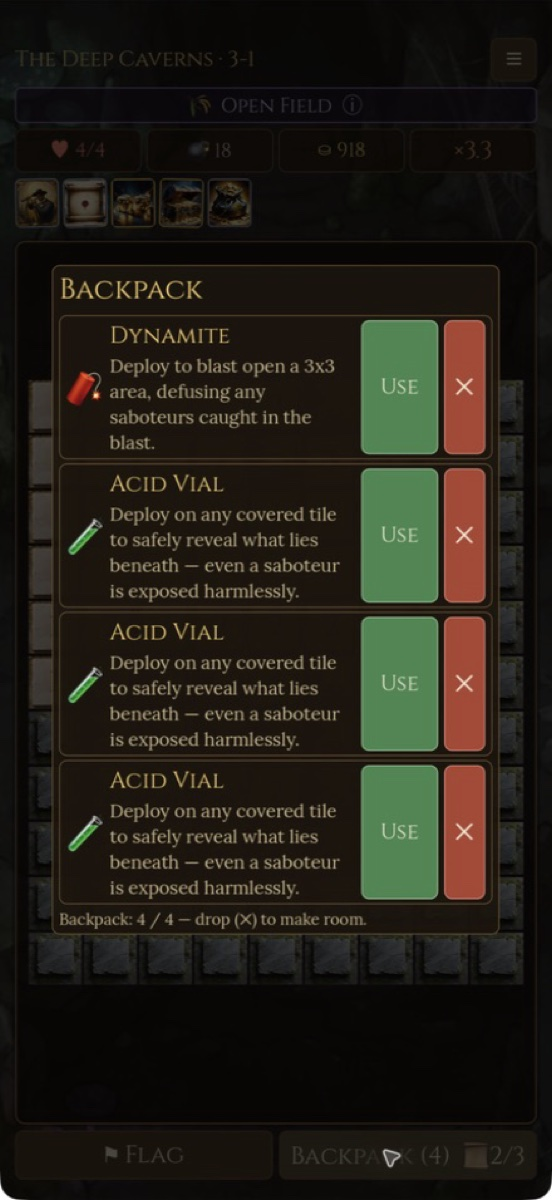
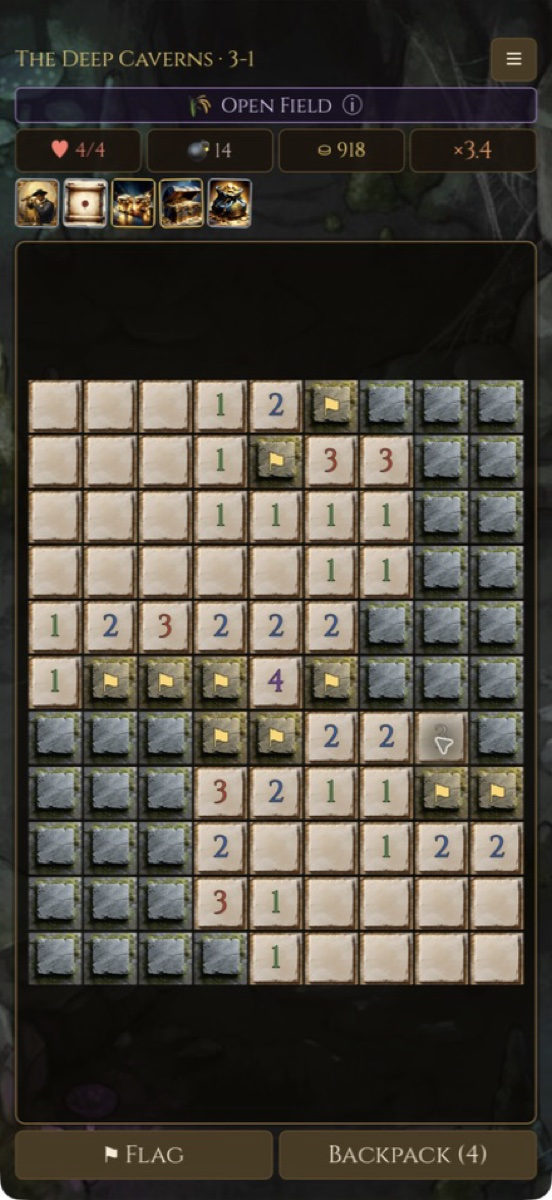
Card thumbs: center crop; Sweeper leads with its three distinct shots
Top-anchored crops showed every shot's identical logo/HUD header and hid
the differentiating mid-board action. Sweeper's card now shows field,
flagging mode, and the backpack screen instead of three near-identical
fields.

diff --git a/style.css b/style.css
@@ -215,7 +215,7 @@ section { padding: 64px 0; }
 .card-shots { display: flex; gap: 7px; margin: 4px 0 2px; }
 .card-shots img {
   width: calc((100% - 14px) / 3);
-  aspect-ratio: 9 / 12; object-fit: cover; object-position: top;
+  aspect-ratio: 9 / 12; object-fit: cover; object-position: center;
   border-radius: 10px; border: 1px solid var(--line);
   background: #0d0d18;
 }